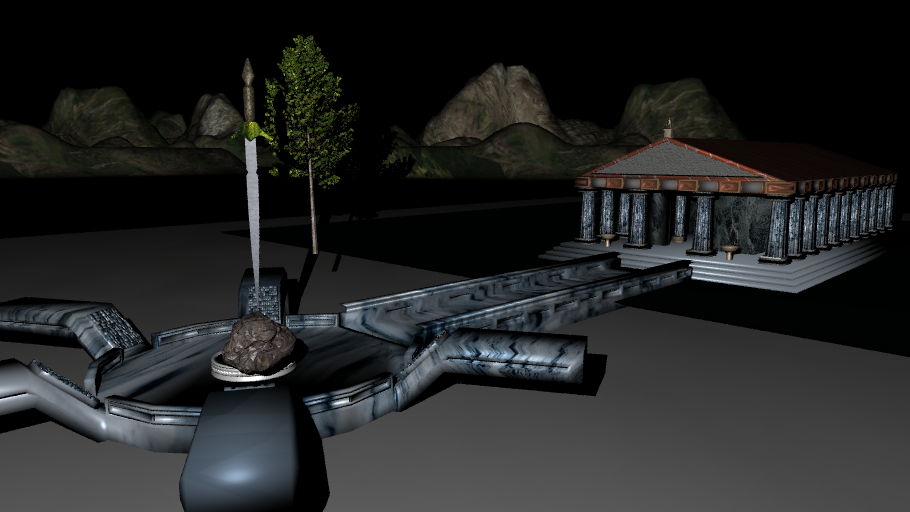
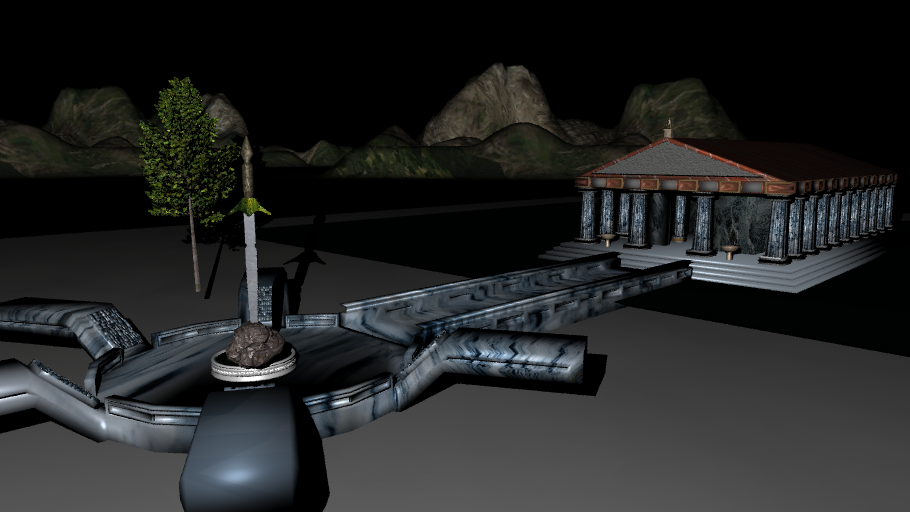
tweaking position of sword, stone and tree

Changed region(s): [[0.1538, 0.0625, 0.4615, 0.75]]

diff --git a/raytracer/Src/ExampleScene.cpp b/raytracer/Src/ExampleScene.cpp
@@ -651,7 +651,7 @@ void ExampleScene::initializeFinalScene()
     
     // stone
     rtPushMatrix();
-    rtTranslate(3.3f,0.f,4.f);
+    rtTranslate(3.3f,0.f,3.9f);
     rtRotate(15.f,15.f,0.f);
     rtScale(.8f,.8f,.8f);
     rtTriangleMeshWithMaterialAndTexture("../Custom_Tests/scene2/obj_files/stone.obj",true,false);
@@ -659,7 +659,7 @@ void ExampleScene::initializeFinalScene()
     
     // sword
     rtPushMatrix();
-    rtTranslate(3.3f,0.f,4.f);
+    rtTranslate(3.3f,-0.5f,4.f);
 //    rtRotate(26.f,1.f,0.f);
     rtScale(1.1f,1.1,1.1f);
     rtTriangleMeshWithMaterialAndTexture("../Custom_Tests/scene2/obj_files/sword.obj",true,false);
@@ -667,7 +667,7 @@ void ExampleScene::initializeFinalScene()
     
     // tree
     rtPushMatrix();
-    rtTranslate(1.f,0.f,-7.f);
+    rtTranslate(-3.f,0.f,-7.f);
     //    rtRotate(26.f,1.f,0.f);
     rtScale(1.5f,1.5,1.5f);
     rtTriangleMeshWithMaterialAndTexture("../Custom_Tests/scene2/obj_files/tree.obj",true,false);
